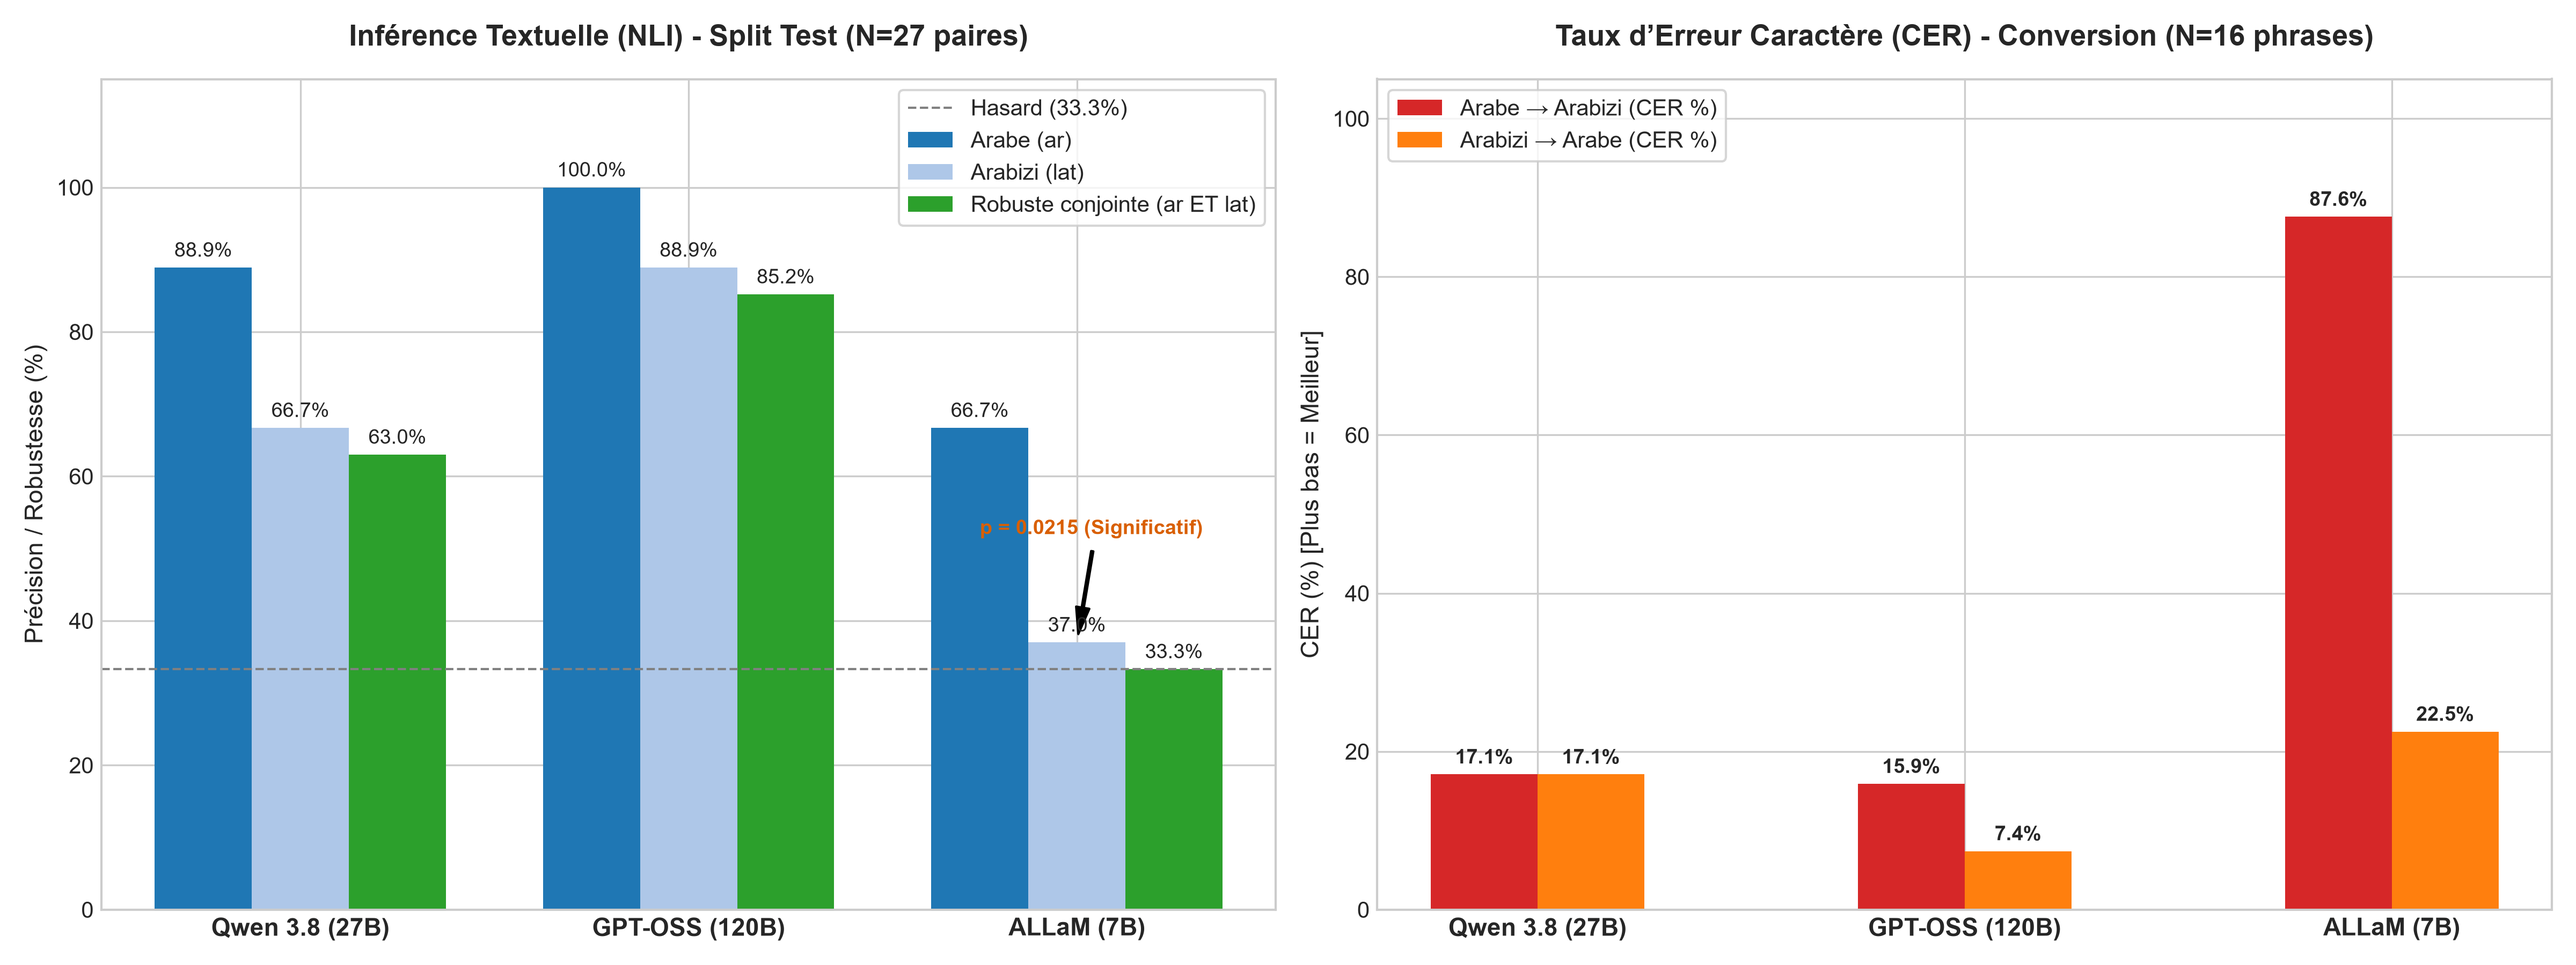
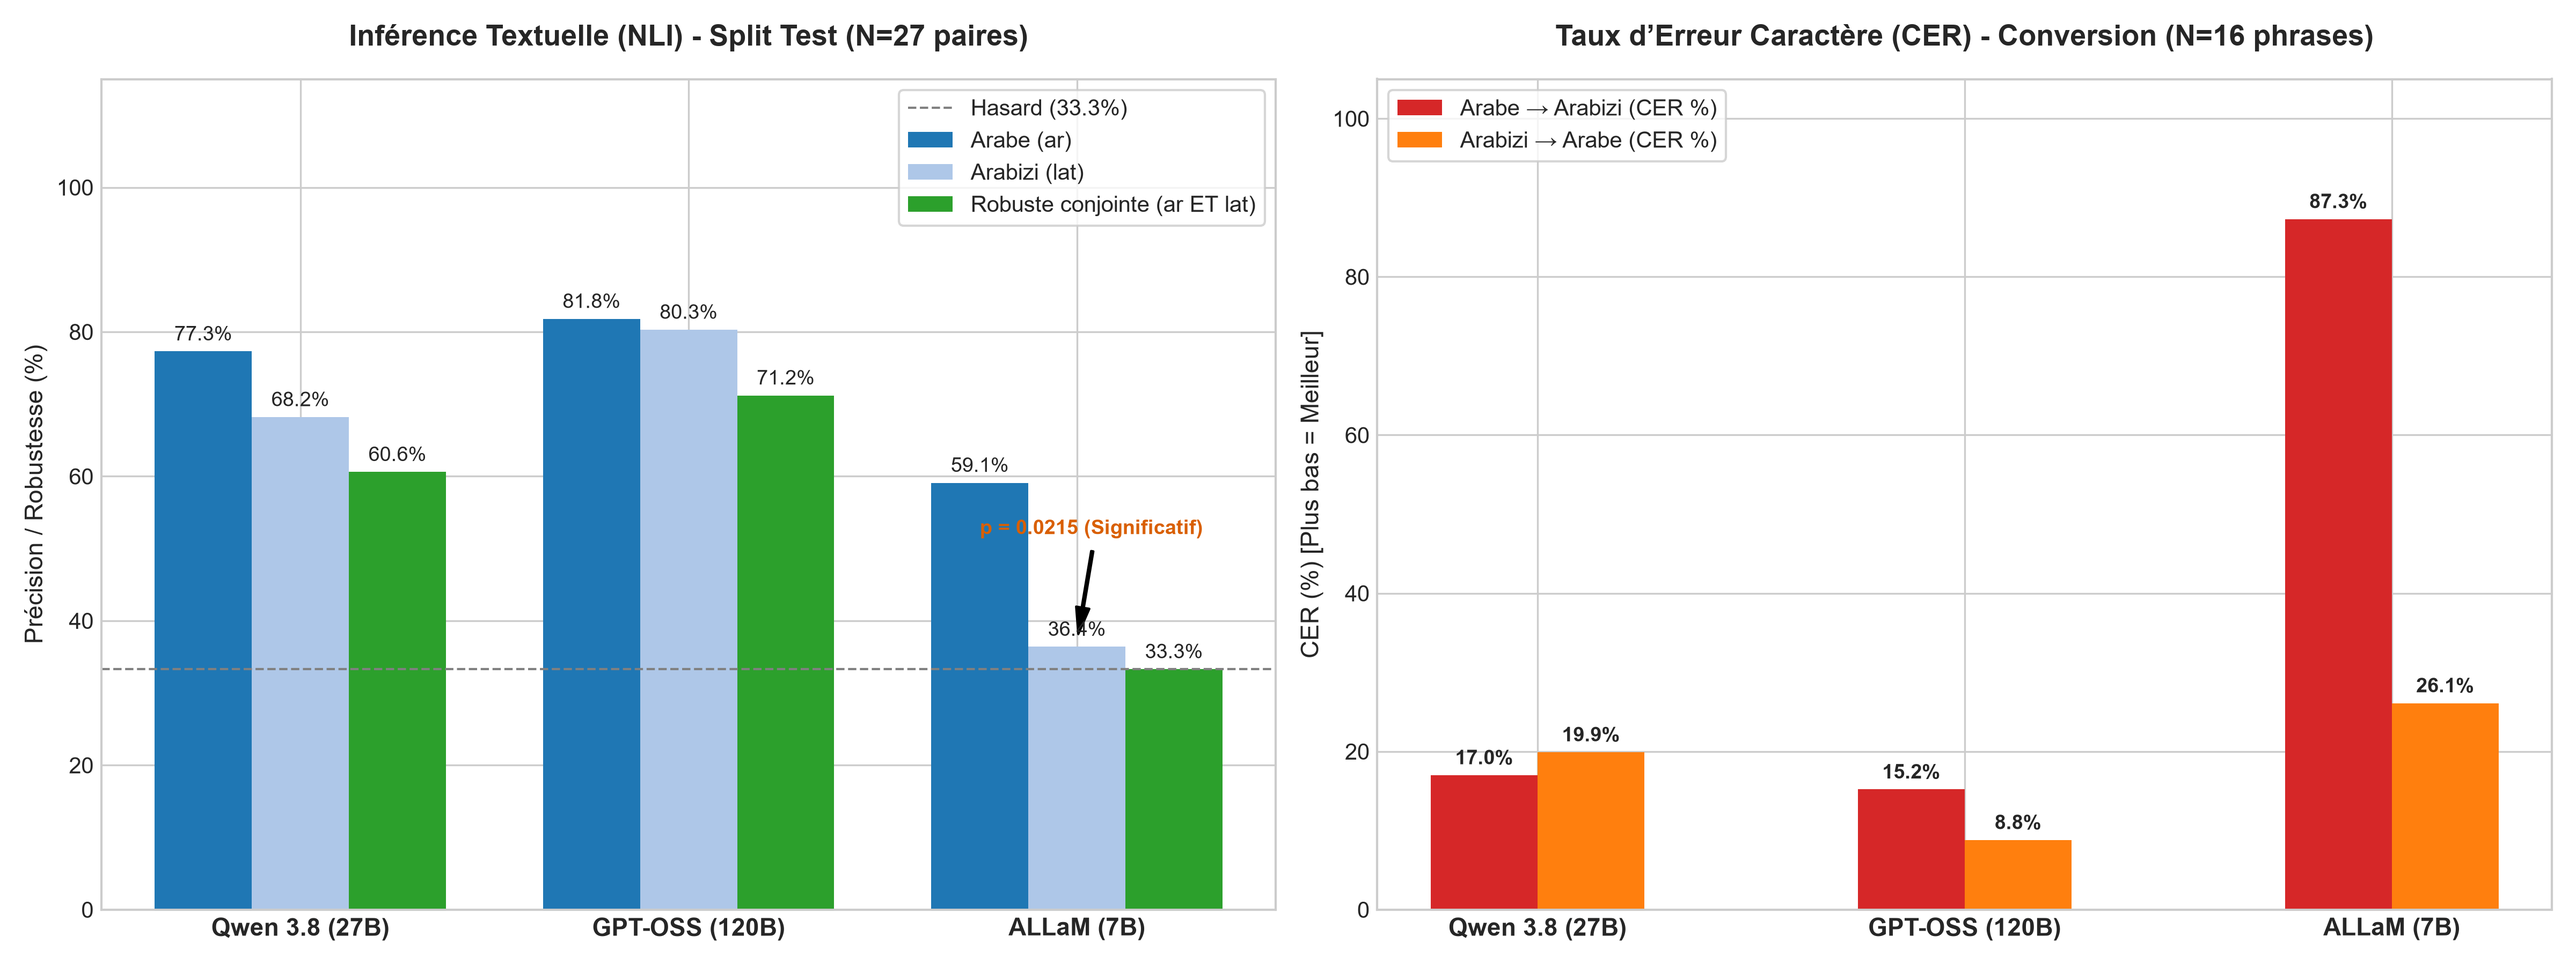
feat: benchmark final 286 lignes

diff --git a/src/generate_charts.py b/src/generate_charts.py
@@ -15,9 +15,9 @@ width = 0.25
 # =========================================================================
 # Graphique 1 : Raisonnement NLI (Split Test Consolidé, N=27 paires)
 # =========================================================================
-nli_ar = [88.9, 100.0, 66.7]
-nli_lat = [66.7, 88.9, 37.0]
-nli_joint = [63.0, 85.2, 33.3]
+nli_ar = [77.3, 81.8, 59.1]
+nli_lat = [68.2, 80.3, 36.4]
+nli_joint = [60.6, 71.2, 33.3]
 
 rects1 = ax1.bar(x - width, nli_ar, width, label='Arabe (ar)', color='#1f77b4')
 rects2 = ax1.bar(x, nli_lat, width, label='Arabizi (lat)', color='#aec7e8')
@@ -47,8 +47,8 @@ for rects in [rects1, rects2, rects3]:
 # =========================================================================
 # Graphique 2 : Qualité de la Conversion (Split Test Consolidé, N=16 phrases)
 # =========================================================================
-cer_ar_lat = [17.1, 15.9, 87.6]   # ar -> lat
-cer_lat_ar = [17.1, 7.4, 22.5]    # lat -> ar
+cer_ar_lat = [17.0, 15.2, 87.3]   # ar -> lat
+cer_lat_ar = [19.9, 8.8, 26.1]    # lat -> ar
 
 rects4 = ax2.bar(x - width/2, cer_ar_lat, width, label='Arabe → Arabizi (CER %)', color='#d62728')
 rects5 = ax2.bar(x + width/2, cer_lat_ar, width, label='Arabizi → Arabe (CER %)', color='#ff7f0e')
